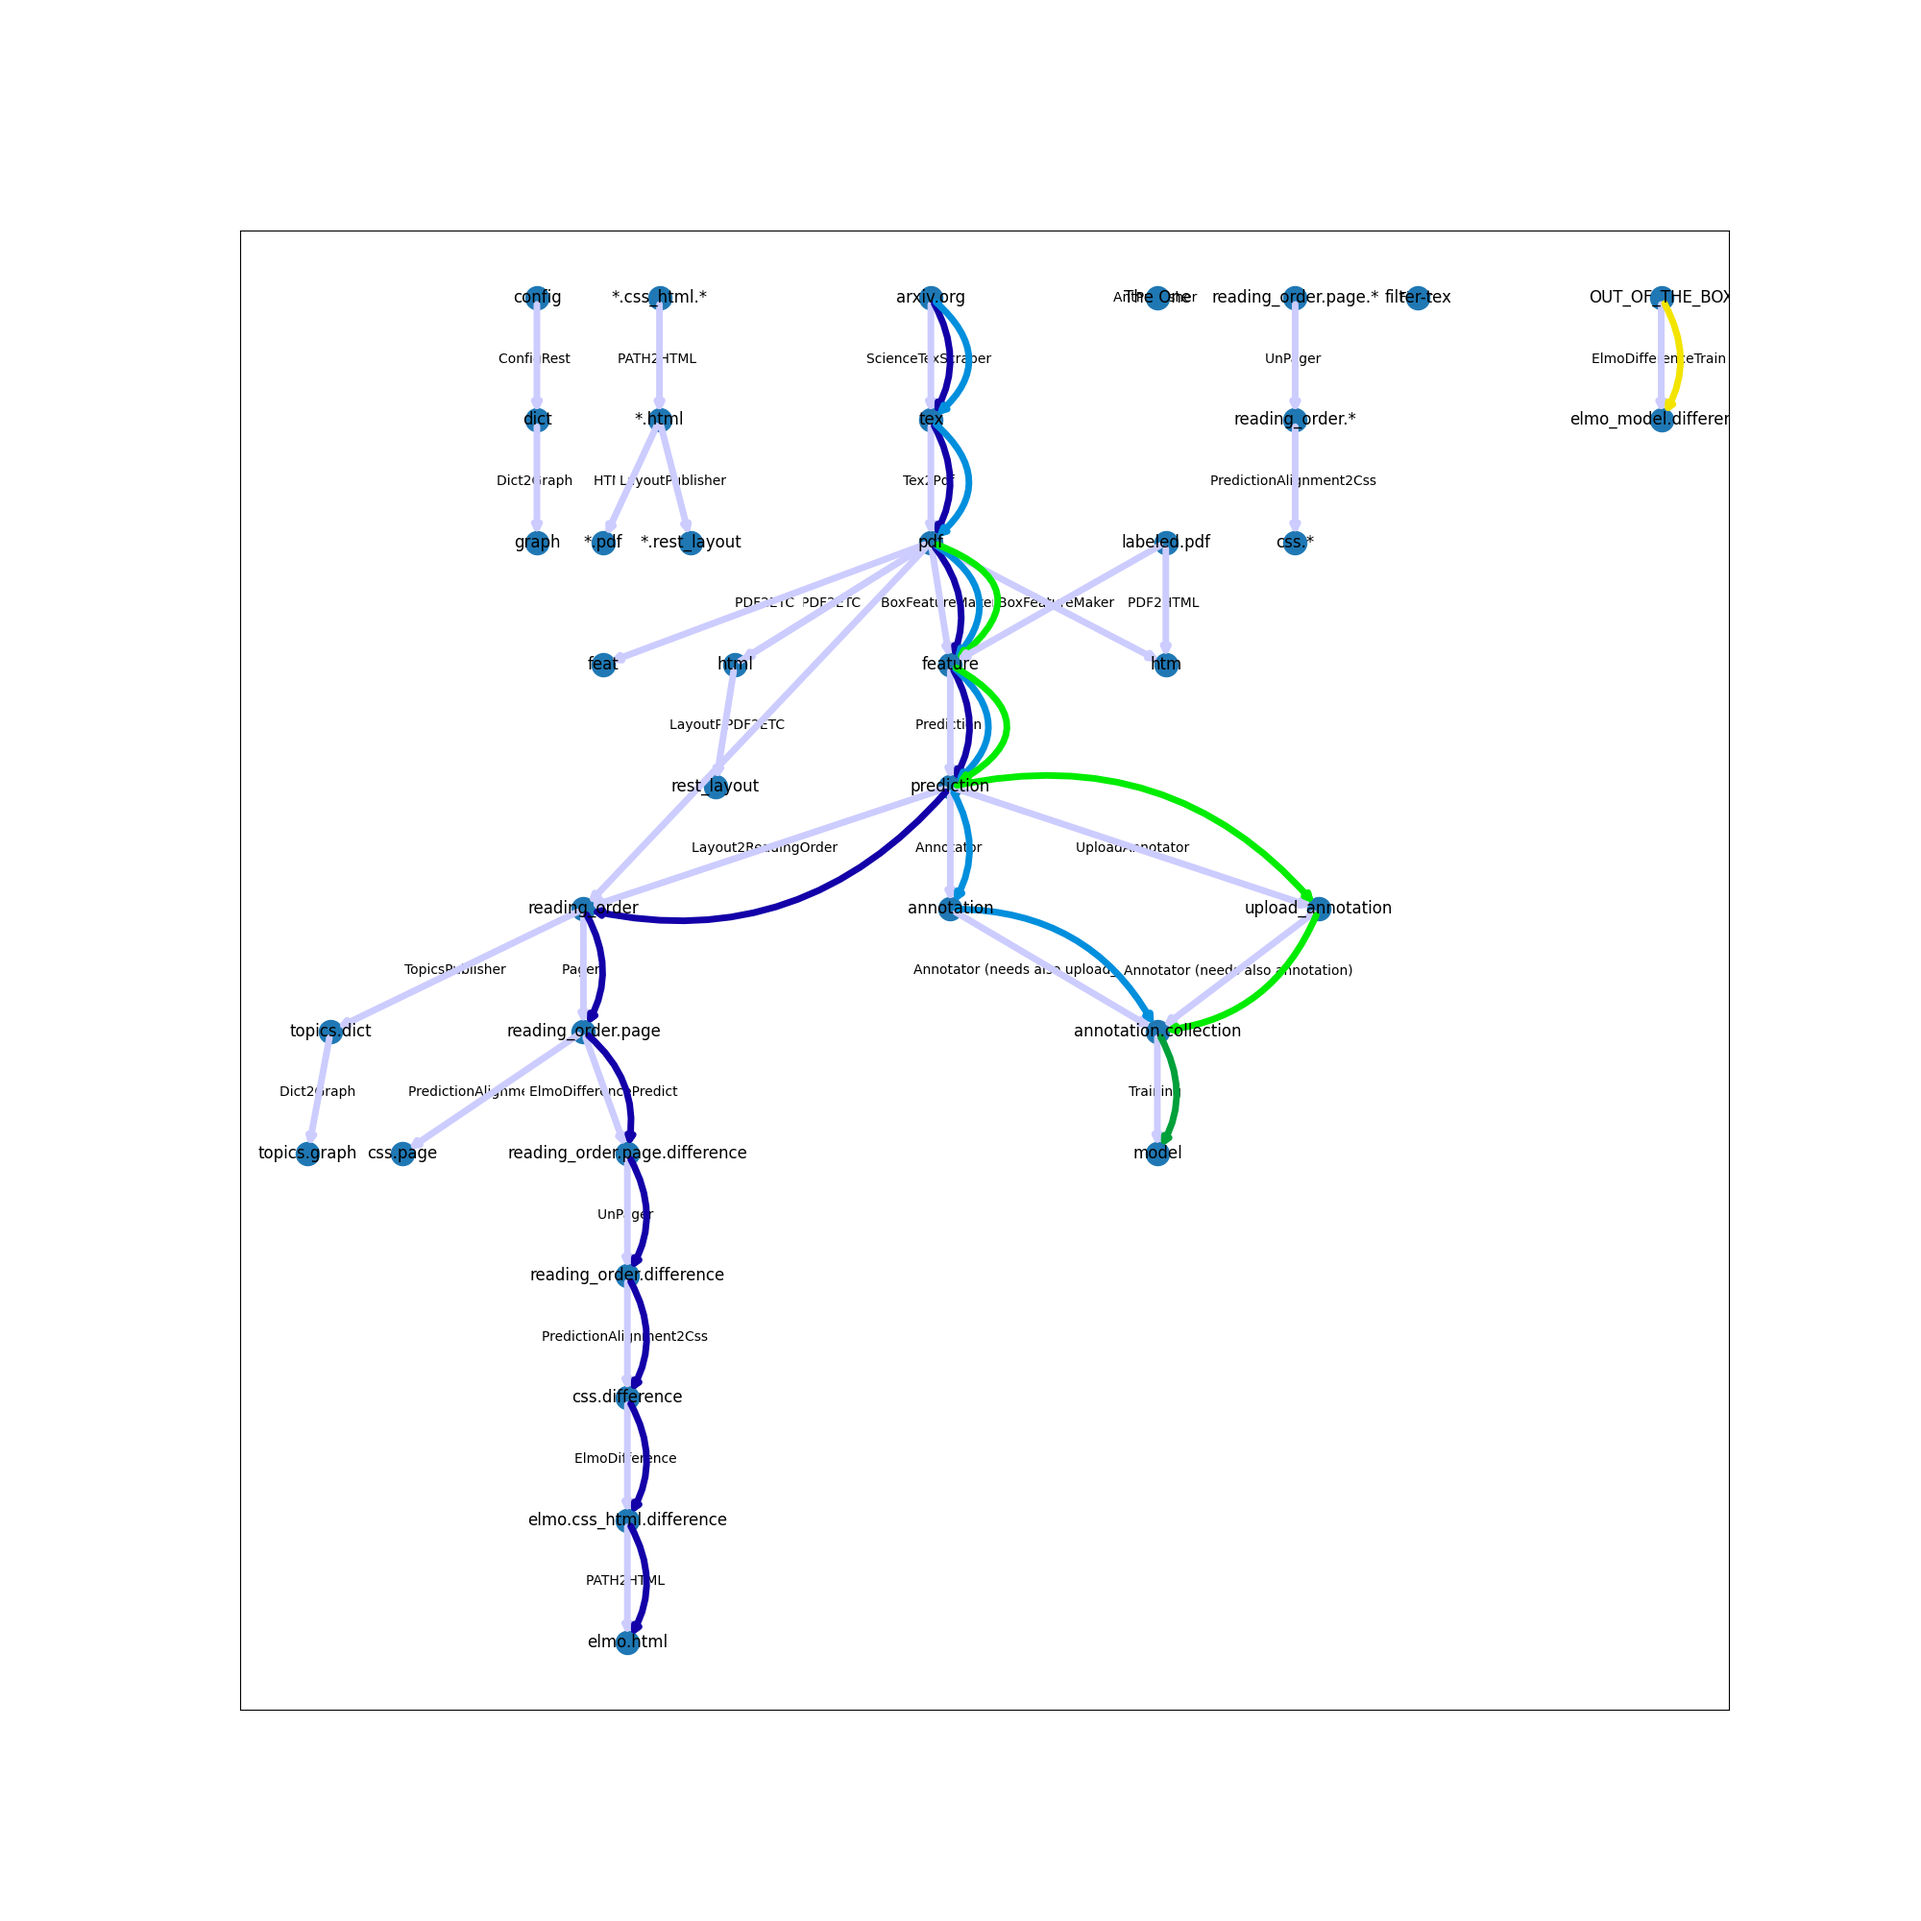
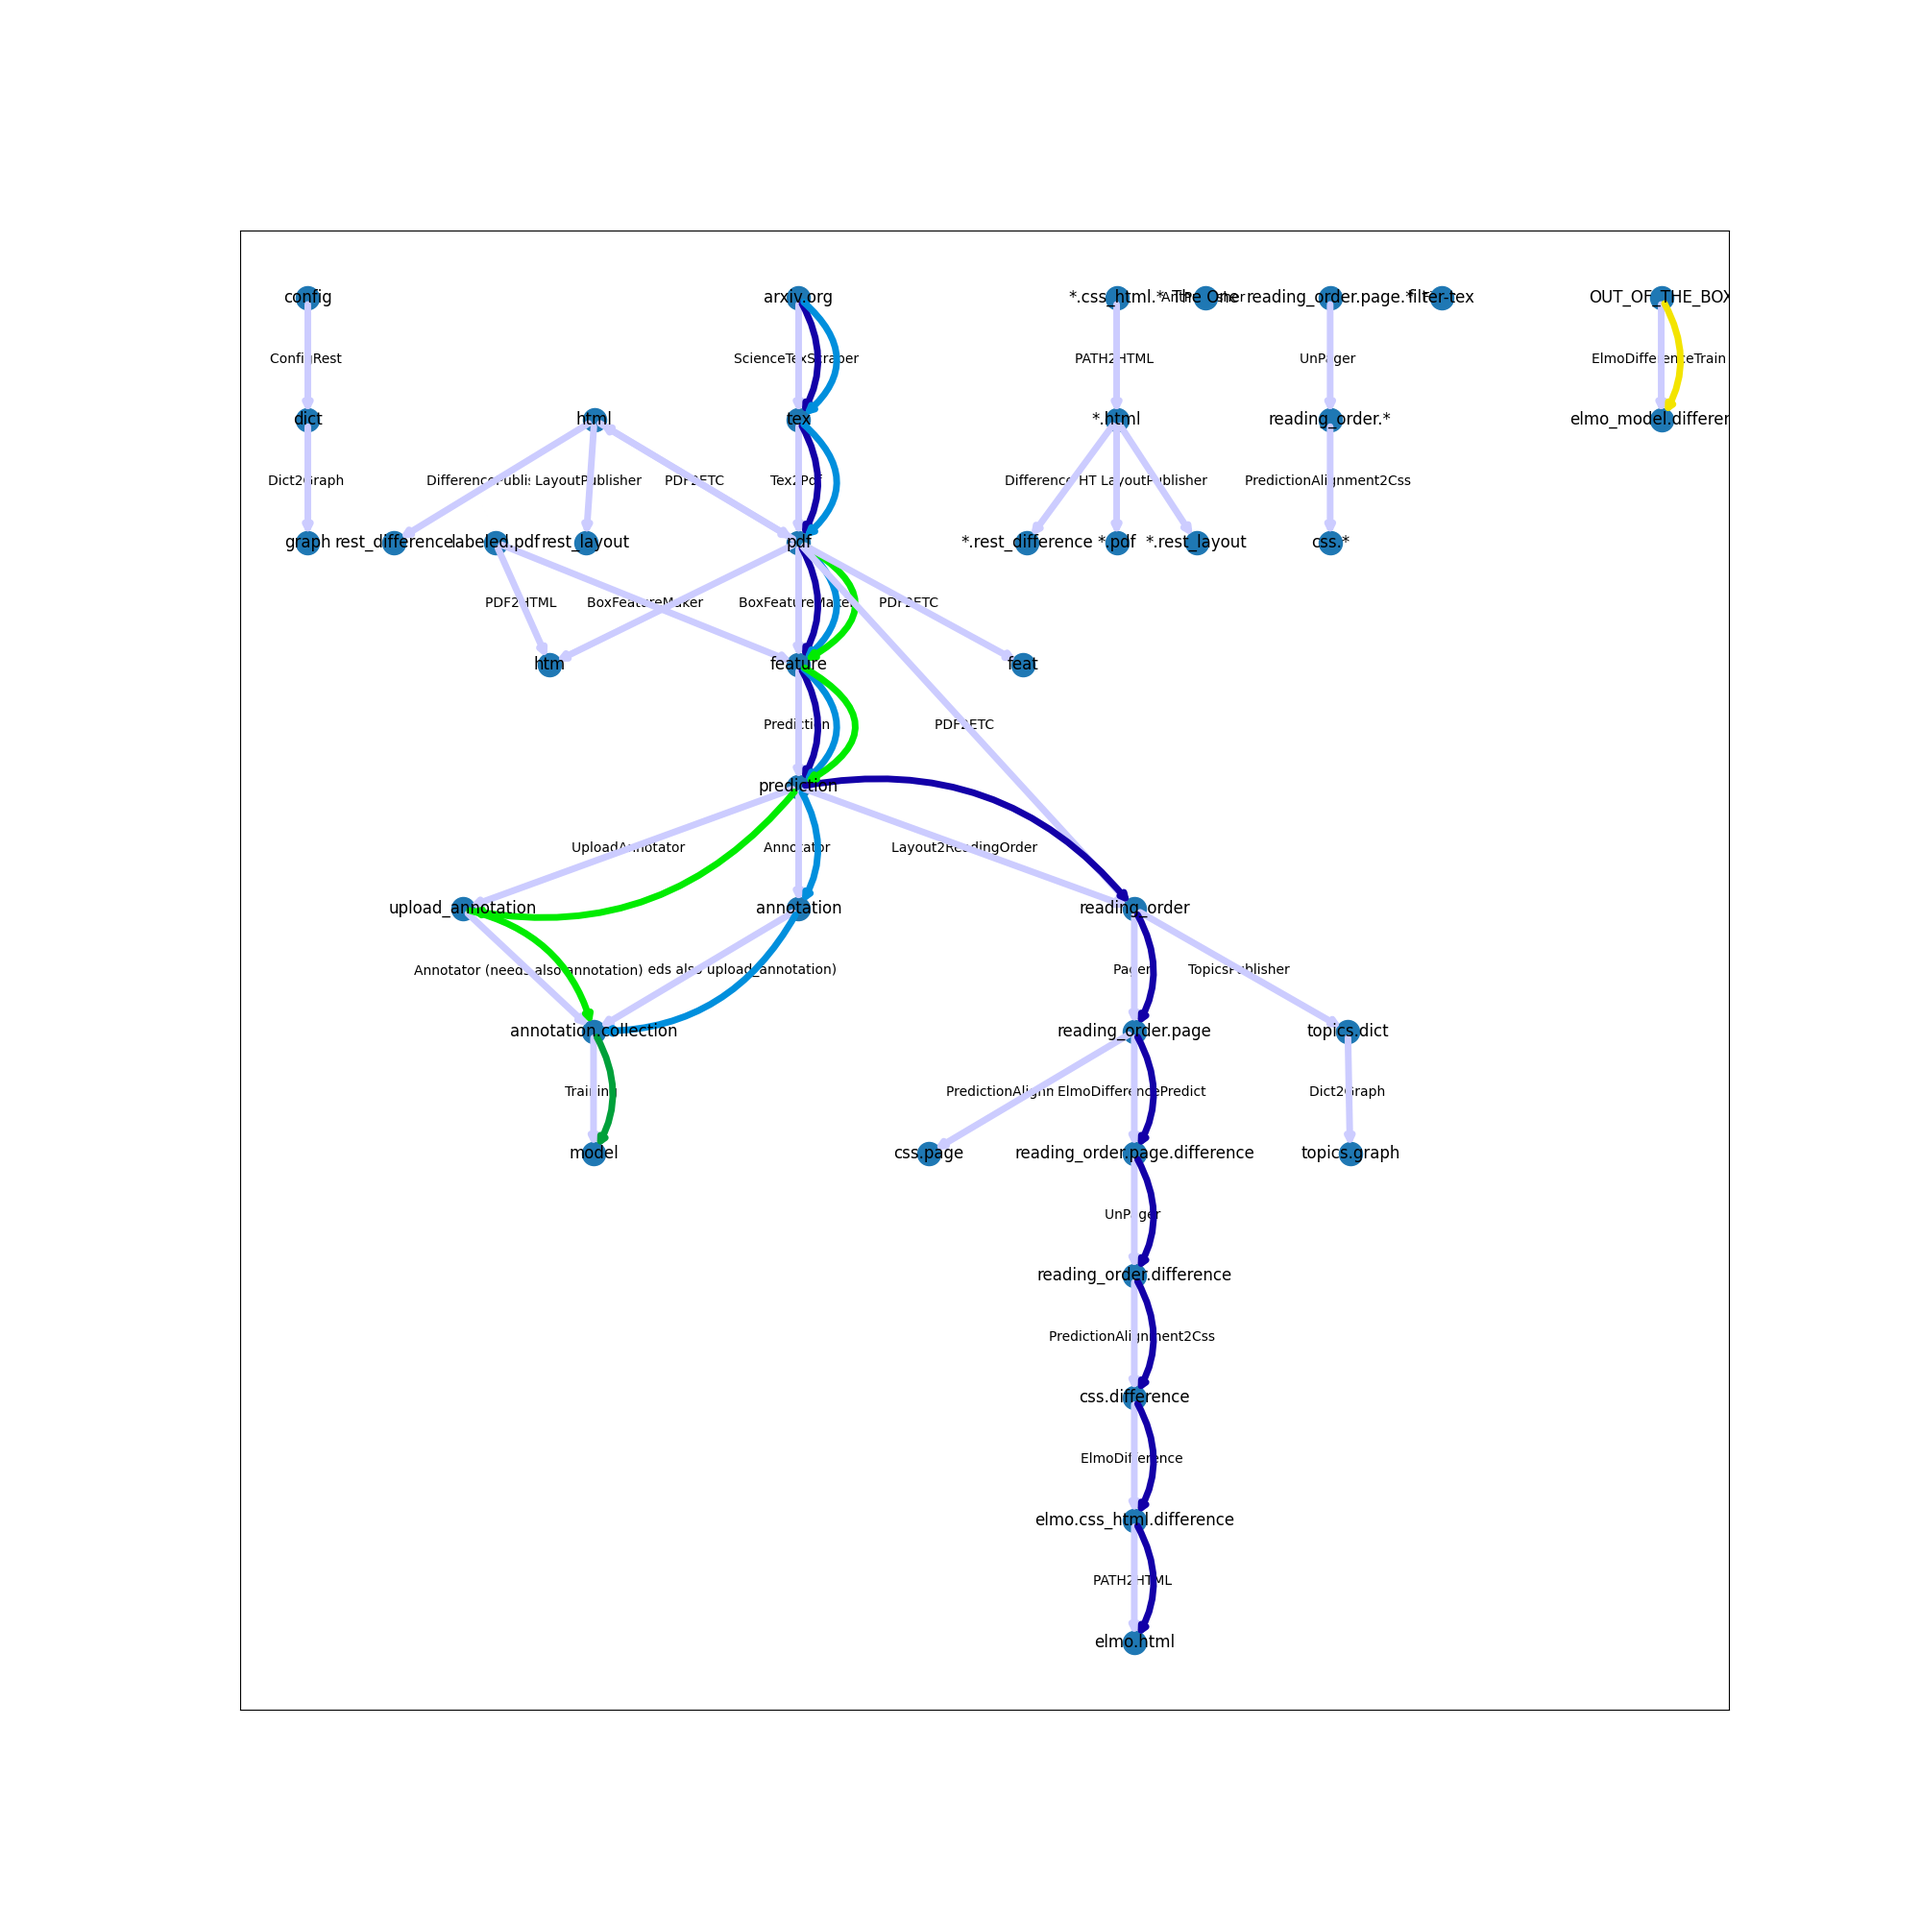
at least fetch one existing document, when doing a click on a node in the library

diff --git a/react/layout_viewer/components/Graph.js b/react/layout_viewer/components/Graph.js
@@ -53,8 +53,9 @@ class Graph extends React.Component {
         data.links.forEach(link => {
             const a = data.nodes.find((n) => n.id == link.source)
             const b = data.nodes.find((n) => n.id == link.target)
-            if (! a)
-               console.log(a , link)
+            if (!a.title && b.title)
+                b.group = a.name
+
             !a.neighbors && (a.neighbors = []);
             !b.neighbors && (b.neighbors = []);
             a.neighbors.push(b);
@@ -153,7 +154,7 @@ class Graph extends React.Component {
                 }}
                 onNodeClick={(node) => this.handleClick(node)}
                 onNodeRightClick={(node) => Router.push({
-                    pathname: '/difference/', query: {...node}
+                    pathname: '/difference/', query: {id: node.path}
                 })}
                 autoPauseRedraw={false}
                 linkWidth={link => this.state.highlightLinks.has(link) ? 5 : 1}
@@ -163,7 +164,12 @@ class Graph extends React.Component {
                 nodeCanvasObject={this.paintRing}
                 onNodeHover={this.handleNodeHover}
                 onLinkHover={this.handleLinkHover}
-
+                nodeAutoColorBy="group"
+                  onNodeDragEnd={node => {
+                    node.fx = node.x;
+                    node.fy = node.y;
+                    node.fz = node.z;
+                  }}
             />
         </div>)
     }

diff --git a/python/backend.py b/python/backend.py
@@ -8,6 +8,7 @@ from wsgiref import simple_server
 import threading
 from traceback_with_variables import activate_by_import
 
+from core import config
 from core.RestPublisher.DifferencePublisher import DifferencePublisher
 from core.StandardConverter import PATH2HTML
 from core.config import PORT
@@ -27,7 +28,7 @@ from layout.annotator.annotation import Annotator, AnnotationQueueRest
 from layout.upload_annotation.upload_annotation import UploadAnnotator
 from layout.upload_annotation.upload_annotation import UploadAnnotator
 from layout.annotation_thread import layout_annotate_train_model, UploadAnnotationQueueRest, sample_pipe, model_pipe, \
-    upload_pipe
+    upload_pipe, full_model_path
 from language.PredictionAlignment2Css import PredictionAlignment2Css
 from layout.Layout2ReadingOrder import Layout2ReadingOrder
 from language.transformer.ElmoDifference import ElmoDifference, ElmoDifferenceQueueRest, elmo_difference_pipe, \
@@ -70,7 +71,7 @@ def create_app():
         '/difference':
             ElmoDifferenceQueueRest,
         '/difference/{id}':
-            DifferencePublisher,
+            ElmoDifferenceQueueRest,
 
         # topics
         '/library':
@@ -136,7 +137,11 @@ if __name__ == "__main__":
         x = None
         while not x:
             try:
-                x = list(itertools.islice(elmo_difference_pipe(
+                x = list(itertools.islice(ant(
+                    "arxiv.org", f"reading_order", via='prediction',
+                    num_labels=config.NUM_LABELS,
+                    layout_model_path=full_model_path
+                )(
                     "https://arxiv.org"
                 ), 100))
             except Exception as e:

diff --git a/python/core/RestPublisher/RestPublisher.py b/python/core/RestPublisher/RestPublisher.py
@@ -176,9 +176,12 @@ class ??title!! extends React.Component<??Title!!Props, ??Title!!State> {
         console.log(this.set_??title!!)
 
         if (this.props.router.query.id) {
+            console.log("query", this.props.router.query)
                             // @ts-ignore
-            this.??title!!Service.fetch_one(this.props.router.query.id, this.set_??title!!)
+            this.??title!!Service.fetch_one(this.props.router.query.id, this.set_??title!!s)
         }
+        
+
         else {    
                             // @ts-ignore
             this.??title!!Service.fetch_all(this.set_??title!!s)
@@ -202,12 +205,20 @@ class ??title!! extends React.Component<??Title!!Props, ??Title!!State> {
     }
     
     set_??title!! = async (v) => {
-        await v.then(prom => {
-            console.log('VALUES', prom.response)
-
+        
+        if (v instanceof Promise) {
+            await v.then(prom => {
+                console.log('VALUES', prom.response)
+    
+                this.setState({
+                    ??title!!: prom.response}
+                )
+            })
+        } else {
             this.setState({
-                ??title!!: prom.response}
-                )})
+                ??title!!: v}
+            )
+        }
     }
     
     render ()  {

diff --git a/python/core/StandardConverter/Dict2Graph.py b/python/core/StandardConverter/Dict2Graph.py
@@ -52,12 +52,17 @@ class Dict2Graph(Ant):
                     q.append((nv, nd))
 
         ddic = nx.to_dict_of_dicts(dig)
-        levels = 3
+        cross_nodes_2_i = {kk: i for i, kk in enumerate((k for (k, v) in (ddic.items()) if v))}
+        rev_ddic= {kk: k for k, v in ddic.items() for kk, vv in v.items()}
+
+        levels = 6
         nodes = [{'id': k,
                   'name': dig.nodes[k]['attr'] if 'attr' in dig.nodes[k] else k,
                   'val': 2 ** (levels - 1) if v else 2 ** (levels - 2),
                   'title': dig.nodes[k]['title'] if 'title' in dig.nodes[k] else None,
-                  'color': dig.nodes[k]['color'] if 'color' in dig.nodes[k] else 'white'
+                  #'color': dig.nodes[k]['color'] if 'color' in dig.nodes[k] else 'white',
+                  'group': cross_nodes_2_i[rev_ddic[k]] if k in rev_ddic else None,
+                  'path':  dig.nodes[k]['html_path'].replace(config.tex_data, "") if 'html_path' in dig.nodes[k] else None
                   }
 
                  for k, v in ddic.items()] \

diff --git a/python/topics/TopicsPublisher.py b/python/topics/TopicsPublisher.py
@@ -24,6 +24,8 @@ from flask import jsonify, Blueprint
 bp = Blueprint('blueprint', __name__, template_folder='templates')
 
 
+topic_maker = TopicMaker()
+
 @converter("reading_order", "topics.dict")
 class TopicsPublisher(RestPublisher, react):
     def __init__(self,
@@ -42,7 +44,6 @@ class TopicsPublisher(RestPublisher, react):
 
     def __call__(self, documents):
         documents = unique(list(documents), key=lambda x: x[1]['html_path'])
-        self.topic_maker = TopicMaker()
 
         html_paths_json_paths_txt_paths, metas = list(zip(*documents))
 
@@ -53,9 +54,8 @@ class TopicsPublisher(RestPublisher, react):
                                ).split()[:10])
             for meta in metas
         ]
-        paths = [meta["html_path"] for meta in metas]
 
-        self.topics, text_ids = self.topic_maker(texts, meta=metas)
+        self.topics, text_ids = topic_maker(texts, meta=metas)
 
         with open(config.topics_dump + f"_{len(documents)}", 'wb') as f:
             pickle.dump([self.topics, metas], f)

diff --git a/python/topics/TopicMaker.py b/python/topics/TopicMaker.py
@@ -72,11 +72,11 @@ class TopicMaker:
 
     def __call__(self, texts, meta, *args, **kwargs):
         self.nlp = spacy.load("en_core_web_trf")
-        embeddings = np.vstack([self.nlp(text)._.trf_data.tensors[1] for text in texts])
+        embeddings = np.vstack([self.nlp(text[:config.TOPIC_TEXT_LENGTH])._.trf_data.tensors[1] for text in texts])
         topics = self.topicize_recursively(embeddings, meta, texts)
         return topics, meta
 
-    def topicize_recursively(self, embeddings, meta, texts, split_size=10, max_level=3, level=0):
+    def topicize_recursively(self, embeddings, meta, texts, split_size=10, max_level=5, level=0):
         print(f"Making Topics {level+1} of maximally {max_level+1}")
         labels = self.cluster(embeddings=embeddings)
         topic_ids_2_doc_ids = self.labels2docs(texts=texts, labels=labels)

diff --git a/python/core/event_binding.py b/python/core/event_binding.py
@@ -203,9 +203,20 @@ class RestQueue:
         resp.media = {'status': 'ok'}
         resp.status = falcon.HTTP_OK
 
-    def on_post(self, req, resp, id=None): # ok
+    # ok or use one existing file
+    def on_post(self, req, resp, id=None):
         print(req, resp)
-        self.ok(id)
+
+        if (req.media):
+            # fetching one document for annotation
+            path = config.tex_data + req.media
+            item = next(self.work_on_upload(path), None)
+            self.workbook[id] = item
+            resp.body = json.dumps(item, ensure_ascii=False)
+            resp.status = falcon.HTTP_OK
+        else:
+            # annotation positive
+            self.ok(id)
 
     def on_delete(self, req, resp, id=None):
         print(req, resp)

diff --git a/python/core/config.py b/python/core/config.py
@@ -106,7 +106,7 @@ reader_height = numpy.sqrt(2) * reader_width
 page_margin_bottom = 0.06
 page_margin_top = 0.15
 
-pdf_dir = "../test/"
+pdf_dir = ""
 topics_dump = hidden_folder + "/topics/topics.pickle"
 markup_dir = pdf_dir
 markup_suffix = "pdflayout.html"
@@ -170,3 +170,5 @@ PDF_UPLOAD_DIR = hidden_folder + "/pdf_upload/"
 ELMO_DIFFERENCE_MODEL_PATH = hidden_folder + "elmo_difference_models"
 ELMO_DIFFERENCE_COLLECTION_PATH = hidden_folder + "elmo_difference_collection"
 PORT = 7789
+
+TOPIC_TEXT_LENGTH = 180

diff --git a/python/helpers/cache_tools.py b/python/helpers/cache_tools.py
@@ -312,7 +312,7 @@ def uri_with_cache(fun):
             print("extra kwargs", kwargs)
 
         if not (fun, req) in memory_caches:
-            print(req, resp, *args, **kwargs)
+            print(req, resp, args, kwargs)
             memory_caches[fun] = "working..."
             res = fun(self, req, resp)
             memory_caches[(fun, req)] = res

diff --git a/python/core/RestPublisher/PdfCssPublisher.py b/python/core/RestPublisher/PdfCssPublisher.py
@@ -21,8 +21,7 @@ class PdfCssPublisher(RestPublisher):
         self.dir = config.markup_dir
         self.kind = kind
 
-    @uri_with_cache
-    def on_post(self, req, resp):
+    def on_get(self, req, resp, id=None):
         print (f"Annotating {self.kind}")
 
         pprint(req)
